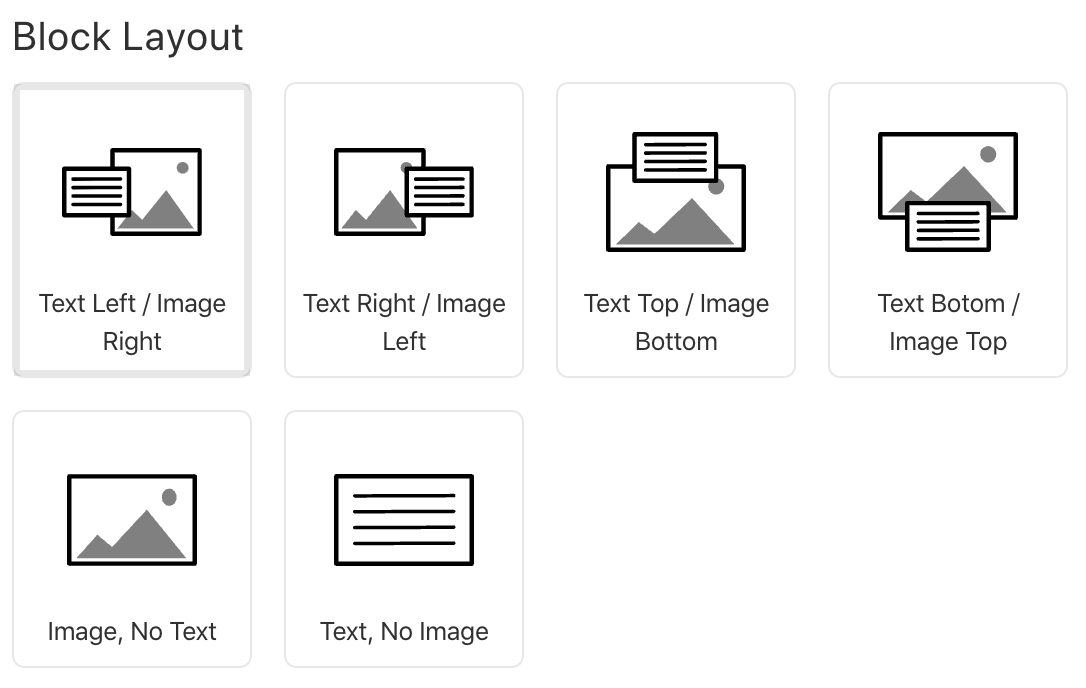
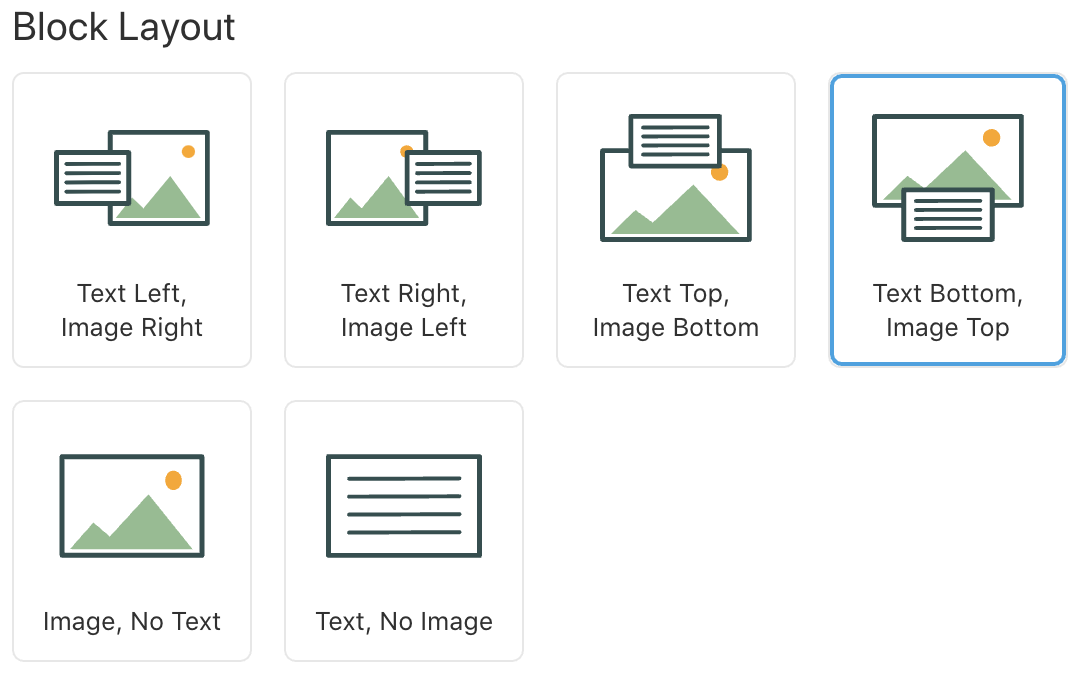
add style options and tooltip

diff --git a/examples/icons.js b/examples/icons.js
@@ -1,13 +1,13 @@
 import React from "react";
 
-export const OIText = () => <svg viewBox="0 0 793 528" xmlns="http://www.w3.org/2000/svg" fillRule="evenodd" clipRule="evenodd" strokeLinecap="round" strokeLinejoin="round" strokeMiterlimit="1.5"><g stroke="#000"><path fill="#fff" strokeWidth="25" d="M12.534 12.991h767.933v502.017H12.534z"/><path d="M117.542 125.78s562.598-1.433 560.772-1.765M117.542 216.456s562.598-1.433 560.772-1.765M117.542 307.474s562.598-1.433 560.772-1.766M117.542 398.809s562.598-1.433 560.772-1.766" fill="none" strokeWidth="20"/></g></svg>
+export const OIText = () => <svg viewBox="0 0 793 528" xmlns="http://www.w3.org/2000/svg" fillRule="evenodd" clipRule="evenodd" strokeLinecap="round" strokeLinejoin="round" strokeMiterlimit="1.5"><g stroke="darkslategrey"><path fill="#fff" strokeWidth="25" d="M12.534 12.991h767.933v502.017H12.534z"/><path d="M117.542 125.78s562.598-1.433 560.772-1.765M117.542 216.456s562.598-1.433 560.772-1.765M117.542 307.474s562.598-1.433 560.772-1.766M117.542 398.809s562.598-1.433 560.772-1.766" fill="none" strokeWidth="20"/></g></svg>
 
-export const OIImage = () => <svg viewBox="0 0 793 528" xmlns="http://www.w3.org/2000/svg" fillRule="evenodd" clipRule="evenodd" strokeLinecap="round" strokeLinejoin="round" strokeMiterlimit="1.5"><path fill="#fff" stroke="#000" strokeWidth="25" d="M40.825 13.644h711.35v500.711H40.825z"/><path d="M81.326 483.201c-.32-1.208 119.275-134.999 119.275-134.999l83.251 71.08 196.53-215.02 223.851 279.093s-622.587 1.054-622.907-.154z" fill="gray"/><ellipse cx="607.556" cy="133.672" rx="41.914" ry="49.343" fill="gray"/></svg>
+export const OIImage = () => <svg viewBox="0 0 793 528" xmlns="http://www.w3.org/2000/svg" fillRule="evenodd" clipRule="evenodd" strokeLinecap="round" strokeLinejoin="round" strokeMiterlimit="1.5"><path fill="#fff" stroke="darkslategrey" strokeWidth="25" d="M40.825 13.644h711.35v500.711H40.825z"/><path d="M81.326 483.201c-.32-1.208 119.275-134.999 119.275-134.999l83.251 71.08 196.53-215.02 223.851 279.093s-622.587 1.054-622.907-.154z" fill="darkseagreen"/><ellipse cx="607.556" cy="133.672" rx="41.914" ry="49.343" fill="orange"/></svg>
 
-export const OITextLeftOverlap = () => <svg viewBox="0 0 794 489" xmlns="http://www.w3.org/2000/svg" fillRule="evenodd" clipRule="evenodd" strokeLinecap="round" strokeLinejoin="round" strokeMiterlimit="1.5"><path fill="#fff" stroke="#000" strokeWidth="25" d="M286.006 12.5h494.513v463.978H286.006z"/><path d="M314.162 447.702c-.223-.926 82.916-103.491 82.916-103.491l57.875 54.49 136.623-164.834L747.192 447.82s-432.808.808-433.03-.118z" fill="gray"/><ellipse cx="684.276" cy="110.145" rx="33.43" ry="32.145" fill="gray"/><g stroke="#000"><path fill="#fff" strokeWidth="25" d="M12.5 114.766h367.643v259.446H12.5z"/><path d="M62.772 173.056s269.34-.74 268.466-.912M62.772 219.918s269.34-.74 268.466-.912M62.772 266.957s269.34-.741 268.466-.913M62.772 314.159s269.34-.74 268.466-.912" fill="none" strokeWidth="20"/></g></svg>
+export const OITextLeftOverlap = () => <svg viewBox="0 0 794 489" xmlns="http://www.w3.org/2000/svg" fillRule="evenodd" clipRule="evenodd" strokeLinecap="round" strokeLinejoin="round" strokeMiterlimit="1.5"><path fill="#fff" stroke="darkslategrey" strokeWidth="25" d="M286.006 12.5h494.513v463.978H286.006z"/><path d="M314.162 447.702c-.223-.926 82.916-103.491 82.916-103.491l57.875 54.49 136.623-164.834L747.192 447.82s-432.808.808-433.03-.118z" fill="darkseagreen"/><ellipse cx="684.276" cy="110.145" rx="33.43" ry="32.145" fill="orange"/><g stroke="darkslategrey"><path fill="#fff" strokeWidth="25" d="M12.5 114.766h367.643v259.446H12.5z"/><path d="M62.772 173.056s269.34-.74 268.466-.912M62.772 219.918s269.34-.74 268.466-.912M62.772 266.957s269.34-.741 268.466-.913M62.772 314.159s269.34-.74 268.466-.912" fill="none" strokeWidth="20"/></g></svg>
 
-export const OITextRightOverlap = () => <svg viewBox="0 0 794 489" xmlns="http://www.w3.org/2000/svg" fillRule="evenodd" clipRule="evenodd" strokeLinecap="round" strokeLinejoin="round" strokeMiterlimit="1.5"><path fill="#fff" stroke="#000" strokeWidth="25" d="M12.908 12.5h494.513v463.978H12.908z"/><path d="M41.063 447.702c-.223-.926 82.917-103.491 82.917-103.491l57.874 54.49 136.623-164.834L474.093 447.82s-432.808.808-433.03-.118z" fill="gray"/><ellipse cx="411.177" cy="110.145" rx="33.43" ry="32.145" fill="gray"/><g stroke="#000"><path fill="#fff" strokeWidth="25" d="M412.941 114.766h367.643v259.446H412.941z"/><path d="M463.213 173.056s269.34-.74 268.466-.912M463.213 219.918s269.34-.74 268.466-.912M463.213 266.957s269.34-.741 268.466-.913M463.213 314.159s269.34-.74 268.466-.912" fill="none" strokeWidth="20"/></g></svg>
+export const OITextRightOverlap = () => <svg viewBox="0 0 794 489" xmlns="http://www.w3.org/2000/svg" fillRule="evenodd" clipRule="evenodd" strokeLinecap="round" strokeLinejoin="round" strokeMiterlimit="1.5"><path fill="#fff" stroke="darkslategrey" strokeWidth="25" d="M12.908 12.5h494.513v463.978H12.908z"/><path d="M41.063 447.702c-.223-.926 82.917-103.491 82.917-103.491l57.874 54.49 136.623-164.834L474.093 447.82s-432.808.808-433.03-.118z" fill="darkseagreen"/><ellipse cx="411.177" cy="110.145" rx="33.43" ry="32.145" fill="orange"/><g stroke="darkslategrey"><path fill="#fff" strokeWidth="25" d="M412.941 114.766h367.643v259.446H412.941z"/><path d="M463.213 173.056s269.34-.74 268.466-.912M463.213 219.918s269.34-.74 268.466-.912M463.213 266.957s269.34-.741 268.466-.913M463.213 314.159s269.34-.74 268.466-.912" fill="none" strokeWidth="20"/></g></svg>
 
-export const OITextTopOverlap = () => <svg viewBox="0 0 793 669" xmlns="http://www.w3.org/2000/svg" fillRule="evenodd" clipRule="evenodd" strokeLinecap="round" strokeLinejoin="round" strokeMiterlimit="1.5"><path fill="#fff" stroke="#000" strokeWidth="25" d="M12.424 191.967h768.127v463.978H12.424z"/><path d="M56.158 627.076c-.346-1.119 128.794-125.095 128.794-125.095l89.897 65.866 212.215-199.246L728.783 627.22s-672.28.976-672.625-.144z" fill="gray"/><ellipse cx="624.389" cy="303.19" rx="45.259" ry="45.723" fill="gray"/><g stroke="#000"><path fill="#fff" strokeWidth="25" d="M161.231 12.449h462.477v259.446H161.231z"/><path d="M224.471 70.739s338.817-.741 337.717-.912M224.471 117.601s338.817-.741 337.717-.912M224.471 164.639s338.817-.74 337.717-.912M224.471 211.842s338.817-.741 337.717-.913" fill="none" strokeWidth="20"/></g></svg>
+export const OITextTopOverlap = () => <svg viewBox="0 0 793 669" xmlns="http://www.w3.org/2000/svg" fillRule="evenodd" clipRule="evenodd" strokeLinecap="round" strokeLinejoin="round" strokeMiterlimit="1.5"><path fill="#fff" stroke="darkslategrey" strokeWidth="25" d="M12.424 191.967h768.127v463.978H12.424z"/><path d="M56.158 627.076c-.346-1.119 128.794-125.095 128.794-125.095l89.897 65.866 212.215-199.246L728.783 627.22s-672.28.976-672.625-.144z" fill="darkseagreen"/><ellipse cx="624.389" cy="303.19" rx="45.259" ry="45.723" fill="orange"/><g stroke="darkslategrey"><path fill="#fff" strokeWidth="25" d="M161.231 12.449h462.477v259.446H161.231z"/><path d="M224.471 70.739s338.817-.741 337.717-.912M224.471 117.601s338.817-.741 337.717-.912M224.471 164.639s338.817-.74 337.717-.912M224.471 211.842s338.817-.741 337.717-.913" fill="none" strokeWidth="20"/></g></svg>
 
-export const OITextBottomOverlap = () => <svg viewBox="0 0 793 669" xmlns="http://www.w3.org/2000/svg" fillRule="evenodd" clipRule="evenodd" strokeLinecap="round" strokeLinejoin="round" strokeMiterlimit="1.5"><path fill="#fff" stroke="#000" strokeWidth="25" d="M12.424 13.141h768.127v463.978H12.424z"/><path d="M56.158 448.25c-.346-1.119 128.794-125.095 128.794-125.095l89.897 65.865 212.215-199.245 241.719 258.619s-672.28.975-672.625-.144z" fill="gray"/><ellipse cx="624.389" cy="124.364" rx="45.259" ry="45.723" fill="gray"/><g stroke="#000"><path fill="#fff" strokeWidth="25" d="M165.249 396.5h462.477v259.446H165.249z"/><path d="M228.489 454.79s338.817-.741 337.717-.912M228.489 501.652s338.817-.741 337.717-.912M228.489 548.69s338.817-.74 337.717-.912M228.489 595.893s338.817-.741 337.717-.912" fill="none" strokeWidth="20"/></g></svg>
+export const OITextBottomOverlap = () => <svg viewBox="0 0 793 669" xmlns="http://www.w3.org/2000/svg" fillRule="evenodd" clipRule="evenodd" strokeLinecap="round" strokeLinejoin="round" strokeMiterlimit="1.5"><path fill="#fff" stroke="darkslategrey" strokeWidth="25" d="M12.424 13.141h768.127v463.978H12.424z"/><path d="M56.158 448.25c-.346-1.119 128.794-125.095 128.794-125.095l89.897 65.865 212.215-199.245 241.719 258.619s-672.28.975-672.625-.144z" fill="darkseagreen"/><ellipse cx="624.389" cy="124.364" rx="45.259" ry="45.723" fill="orange"/><g stroke="darkslategrey"><path fill="#fff" strokeWidth="25" d="M165.249 396.5h462.477v259.446H165.249z"/><path d="M228.489 454.79s338.817-.741 337.717-.912M228.489 501.652s338.817-.741 337.717-.912M228.489 548.69s338.817-.74 337.717-.912M228.489 595.893s338.817-.741 337.717-.912" fill="none" strokeWidth="20"/></g></svg>

diff --git a/src/components/VisualOptions.css b/src/components/VisualOptions.css
@@ -11,21 +11,55 @@
   grid-gap: var(--medium-padding);
 
   @media (--min-medium) {
-    grid-template-columns: 1fr 1fr 1fr 1fr;
+    grid-template-columns: repeat(4, 1fr);
+  }
+
+  &.small {
+    grid-gap: var(--extra-small-padding);
+    grid-template-columns: repeat(4, 1fr);
+
+    @media (--min-medium) {
+      grid-template-columns: repeat(6, 1fr);
+    }
+  }
+
+  &.large {
+    grid-template-columns: repeat(1, 1fr);
+
+    @media (--min-medium) {
+      grid-template-columns: repeat(3, 1fr);
+    }
   }
 }
 
 .item {
   position: relative;
-  padding: var(--small-padding);
+  padding: var(--extra-small-padding);
   border-radius: var(--border-radius-large);
   border: 1px solid var(--hairline-color);
   box-sizing: border-box;
   cursor: pointer;
 
+  & .icon {
+    min-height: calc(var(--large-padding) * 4);
+  }
+
   & > small {
     display: block;
     text-align: center;
+  }
+}
+
+.grid.small {
+  & .icon {
+    min-height: calc(var(--medium-padding) * 4);
+    padding: var(--small-padding);
+  }
+}
+
+.grid.large {
+  & .icon {
+    min-height: calc(var(--large-padding) * 6);
   }
 }
 
@@ -42,7 +76,7 @@
   display: grid;
   align-items: center;
   padding: var(--medium-padding);
-  height: 60px;
+  box-sizing: border-box;
 
   & > * {
     height: 100%;
@@ -50,11 +84,57 @@
   }
 }
 
+.tip {
+  text-align: center;
+  line-height: 1.1;
+  padding: var(--small-padding);
+  padding-top: 0;
+}
+
 .name {
   text-align: center;
 }
 
-.image {
+.tooltip {
+  position: relative;
+
+  & small {
+    background-color: var(--brand-primary);
+    padding: var(--small-padding);
+    border-radius: 5px;
+    color: var(--brand-primary--inverted);
+  }
+
+  & .tip {
+    padding: 0;
+    display: none;
+  }
+
+  &.over .tip {
+    position: absolute;
+    display: block;
+    width: 100%;
+    box-sizing: border-box;
+
+    & small {
+      position: absolute;
+      box-sizing: border-box;
+      left: calc(var(--small-padding) * -1);
+      top: var(--small-padding);
+      width: calc(100% + var(--small-padding));
+      z-index: 500;
+
+      &:before {
+        position: absolute;
+        top: -5px;
+        left: calc(50% - 5px);
+        border: solid var(--brand-primary);
+        border-width: 0 10px 10px 0;
+        transform: rotate(-135deg);
+        content: " ";
+      }
+    }
+  }
 }
 
 .selected {
@@ -65,6 +145,7 @@
     left: 0;
     right: 0;
     bottom: 0;
-    border: 3px solid var(--hairline-color);
+    border: 2px solid var(--brand-primary);
+    border-radius: var(--border-radius-large);
   }
 }

diff --git a/src/components/VisualOptionsItem.js b/src/components/VisualOptionsItem.js
@@ -1,7 +1,12 @@
 import React from "react"
 import styles from "./VisualOptions.css"
+import { createBuilderStatusReporter } from "typescript"
 
 class VisualOptionsItem extends React.Component {
+  constructor(props) {
+    super(props)
+    this.state = { over: false }
+  }
   focus() {
     this.inputElement ? this.inputElement.focus() : null
   }
@@ -12,13 +17,19 @@ class VisualOptionsItem extends React.Component {
       name,
       value,
       selected,
+      showLabel = true,
+      showLabelAsTooltip = false,
       onChange,
       icon: Icon,
     } = this.props
 
     return (
       <div
-        className={`${styles.item} ${selected ? styles.selected : ""}`}
+        className={`${styles.item} ${showLabelAsTooltip ? styles.tooltip : ""} ${selected ? styles.selected : ""} ${
+          this.state.over ? styles.over : ""
+        }`}
+        onMouseOver={() => this.setState({ over: true })}
+        onMouseOut={() => this.setState({ over: false })}
         onClick={e => {
           this.inputElement.click()
           e.preventDefault()
@@ -28,7 +39,7 @@ class VisualOptionsItem extends React.Component {
         <div className={styles.icon}>
           <Icon />
         </div>
-        {name && <small>{name}</small>}
+        {(showLabel || showLabelAsTooltip) && name && <div className={styles.tip}><small>{name}</small></div>}
         <input
           type="radio"
           name={fieldName}

diff --git a/src/components/VisualOptions.js b/src/components/VisualOptions.js
@@ -8,12 +8,13 @@ class VisualOptions extends React.Component {
   }
 
   render() {
-    const { options, value, onChange } = this.props
+    const { options, value, size = "", showLabel, showTooltip, onChange } = this.props
+    const extraClasses = (size.toLowerCase() == "large" || size.toLowerCase() == "small") ? size.toLowerCase() : null;
 
     return (
       <div className={styles.container}>
         {options && (
-          <div className={styles.grid}>
+          <div className={`${styles.grid} ${extraClasses ? styles[extraClasses] : ""}`}>
             {Object.keys(options).map((k, i) => (
               <VisualOptionsItem
                 key={k}
@@ -21,6 +22,8 @@ class VisualOptions extends React.Component {
                 selected={
                   k == value || (options[k].default && value == undefined)
                 }
+                showLabel={showLabel}
+                showLabelAsTooltip={showTooltip}
                 value={k}
                 ref={element =>
                   !this.inputElement &&

diff --git a/src/components/index.js b/src/components/index.js
@@ -27,6 +27,9 @@ class VisualOptionsContainer extends React.Component {
       >
         <VisualOptions
           options={type.options.list}
+          showLabel={type.options.showLabel}
+          showTooltip={type.options.showTooltip}
+          size={type.options.optionSize}
           value={value}
           ref={element =>
             !this.inputElement ? (this.inputElement = element) : null

diff --git a/README.md b/README.md
@@ -5,9 +5,13 @@
 
 _For notable updates and bug fixes see [change log](https://github.com/fractaldimensions/sanity-plugin-visual-options/blob/master/CHANGELOG.md)_
 
-A visual way to show options to users, for example, what layout to apply for a text/image component:
+A visual way to show options to users, for example, what layout to apply for a text/image component (default layout):
 
-![preview image](https://github.com/fractaldimensions/sanity-plugin-visual-options/raw/master/images/preview.png)
+<img alt="preview of default" src="https://github.com/fractaldimensions/sanity-plugin-visual-options/raw/master/images/preview.png" style="max-width: 530px">
+
+Or with tooltip, and as smaller icons:
+
+<img alt="preview of small with tooltip" src="https://github.com/fractaldimensions/sanity-plugin-visual-options/raw/master/images/preview-small.png" style="max-width: 530px">
 
 ## Installation
 
@@ -23,7 +27,7 @@ Schema to produce the above screenshot can be found [here](https://github.com/fr
 
 In your schema, you should add a field of type 'visualOptions', and the options property should contain a key of 'list'. Within this is another dictionary, with the key being the reference that will be saved against the item. Each item must contain an icon as a minimum, which is a React Component. 
 
-In the example below, which produced the image above, the icons are simple React components returning an SVG, therefore react-icons should work here too.
+In the example below, which produced the image above with small options, the icons are simple React components returning an SVG, therefore react-icons should work here too.
 
 ```javascript
 {
@@ -34,6 +38,8 @@ In the example below, which produced the image above, the icons are simple React
       title: "Block Layout",
       type: "visualOptions",
       options: {
+        showTooltip: true,
+        optionSize: "small",
         list: {
           left: {
             name: "Text Left / Image Right",
@@ -67,13 +73,35 @@ In the example below, which produced the image above, the icons are simple React
 }
 ```
 
+## Options
+
+Within the `options` for the schema, there are the following options:
+
+- `showLabels: (true|false)` - Sets whether to show the labels for each item based on their name.
+- `showTooltip: (true|false)` - The name of the item will be turned into a tooltip and displayed on hover. Overrides `showLabels` above.
+- `optionSize: ("small"|"medium"|"large")` - Sets the size of the option items. Defaults to "medium" if omitted or and invalid option is provided.
+
+## Layout Options
+
+## Small 
+
+<img alt="preview of small with tooltip" src="https://github.com/fractaldimensions/sanity-plugin-visual-options/raw/master/images/preview-small.png" style="max-width: 530px">
+
+## Medium
+
+<img alt="preview of medium (default) with tooltip" src="https://github.com/fractaldimensions/sanity-plugin-visual-options/raw/master/images/preview-medium.png" style="max-width: 530px">
+
+## Large
+
+<img alt="preview of large with tooltip" src="https://github.com/fractaldimensions/sanity-plugin-visual-options/raw/master/images/preview-large.png" style="max-width: 530px">
+
+
 ## Future Development/Considerations
 
 - Allow items multi selections with limits e.g. maximum of two.
 - Add a check mark to show selection and allow de-selection (moving of radio to checkboxes also solving the above item).
-- Implement small and medium sized box options.
 - Allow standard images to be displayed rather than just SVGs.
 
-[npm-image]: https://badgen.net/npm/v/sanity-plugin-visual-options?0.7.5
+[npm-image]: https://badgen.net/npm/v/sanity-plugin-visual-options?0.7.7
 [npm-url]: https://npmjs.org/package/sanity-plugin-visual-options
 [npm-dl-image]: https://badgen.net/npm/dt/sanity-plugin-visual-options

diff --git a/CHANGELOG.md b/CHANGELOG.md
@@ -2,6 +2,13 @@
 
 Notable changes are within this log. Not all patch releases will be detailed, see commit history for a greater insight.
 
+## 0.8.0 - 4th May 2020
+
+### Features 
+
+- Labels can be shown as tool tips on hover by adding `showTooltip: true` to the options.
+- Option sizes can be set to `small` and `large` by adding `optionSize: "small"` to the options ([Issue #2](https://github.com/fractaldimensions/sanity-plugin-visual-options/issues/2))
+
 ## 0.7.0 - 9th April 2020
 
 Last of stability issues resolved.
